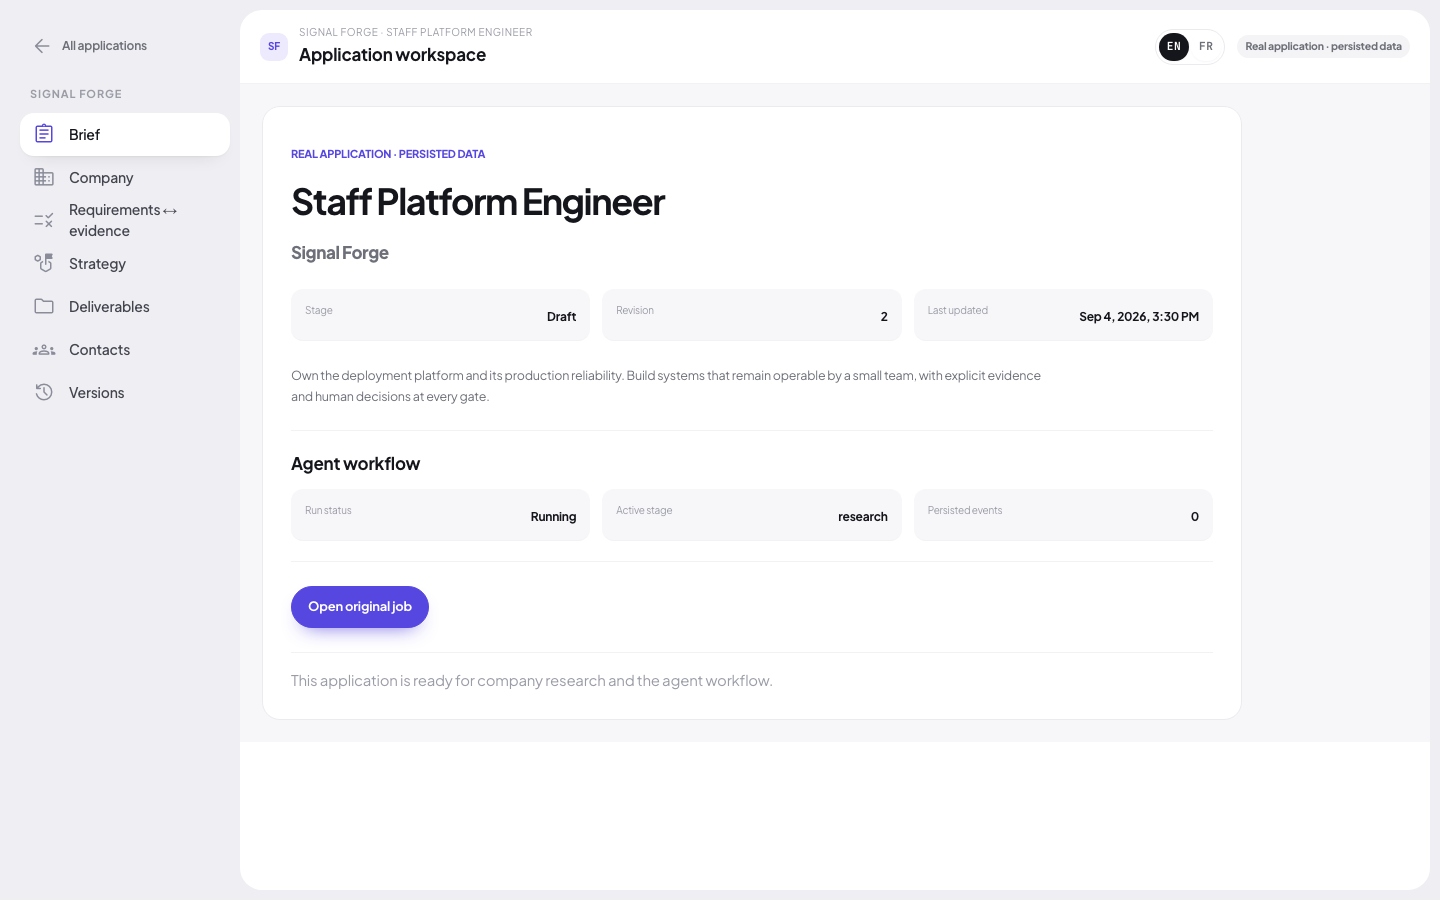
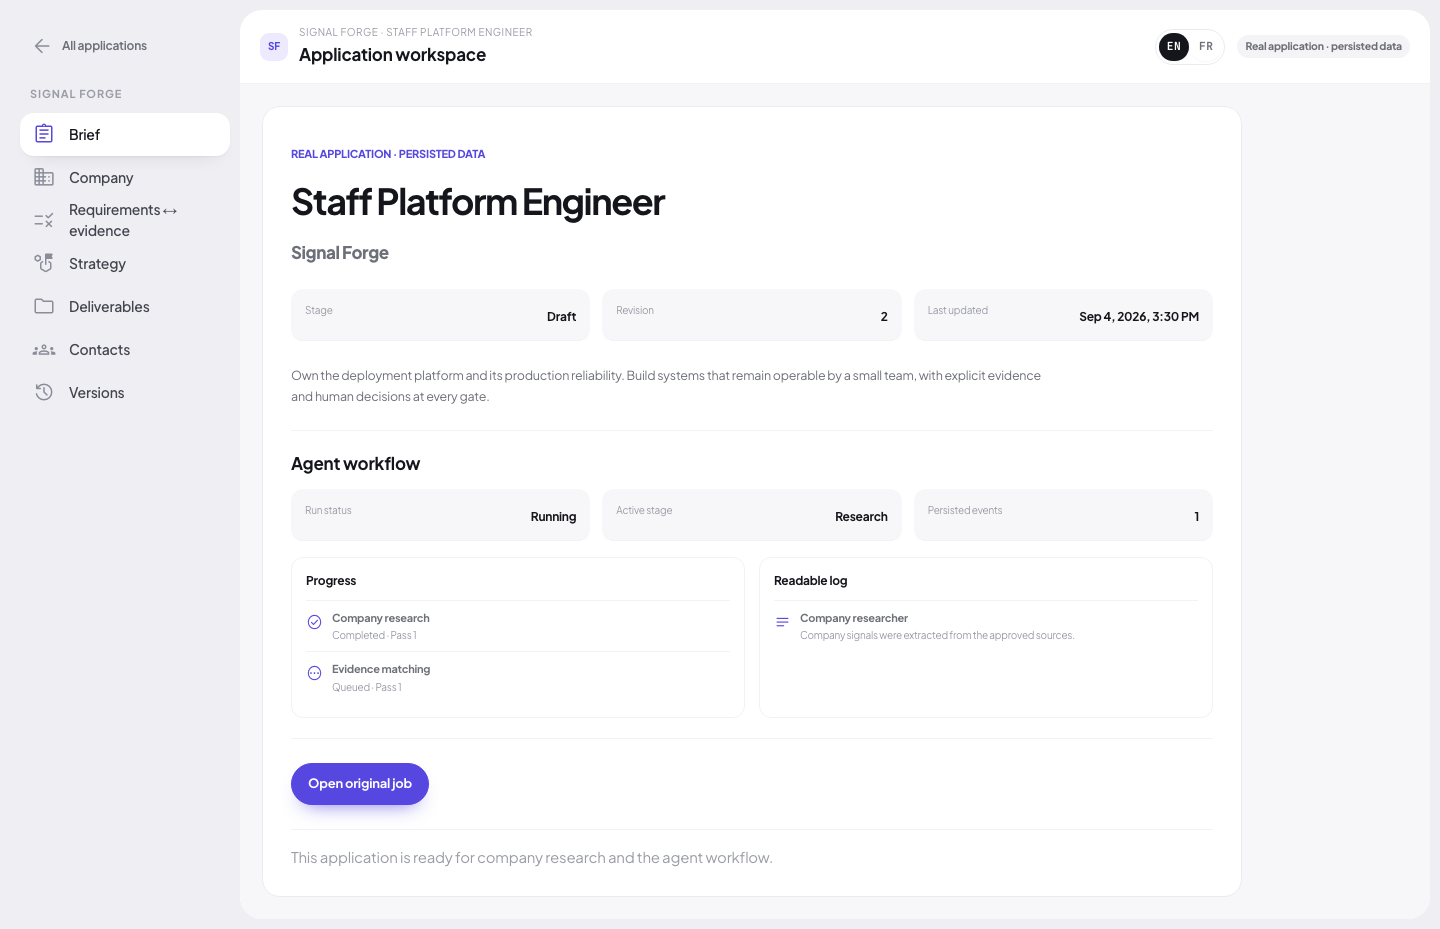
feat: explain application run progress

diff --git a/components/kit-route-page.tsx b/components/kit-route-page.tsx
@@ -874,20 +874,61 @@ function DynamicDossierScreen({ applicationId }: { applicationId: string }) {
               {workflow.loading ? (
                 <p>Recherche d’un run existant…</p>
               ) : workflow.run ? (
-                <dl>
-                  <div>
-                    <dt>Statut du run</dt>
-                    <dd>{runStatusLabel(workflow.run.status, locale)}</dd>
+                <>
+                  <dl>
+                    <div>
+                      <dt>Statut du run</dt>
+                      <dd>{runStatusLabel(workflow.run.status, locale)}</dd>
+                    </div>
+                    <div>
+                      <dt>Étape active</dt>
+                      <dd>{runStageLabel(workflow.run.stage, locale)}</dd>
+                    </div>
+                    <div>
+                      <dt>Événements persistés</dt>
+                      <dd>{workflow.run.events.length}</dd>
+                    </div>
+                  </dl>
+                  <div className="co-run-journal">
+                    <section>
+                      <h3>Progression</h3>
+                      {workflow.run.steps.map((step) => (
+                        <article key={`${step.stage}-${step.attempt}`}>
+                          <Icon>
+                            {step.status === 'completed'
+                              ? 'check_circle'
+                              : step.status === 'failed'
+                                ? 'error'
+                                : 'pending'}
+                          </Icon>
+                          <span>
+                            <strong>{runStageLabel(step.stage, locale)}</strong>
+                            <small>
+                              {stepStatusLabel(step.status, locale)} ·{' '}
+                              {attemptLabel(step.attempt, locale)}
+                            </small>
+                          </span>
+                        </article>
+                      ))}
+                    </section>
+                    <section>
+                      <h3>Journal lisible</h3>
+                      {workflow.run.events.length ? (
+                        workflow.run.events.slice(-5).map((event, index) => (
+                          <article key={`${event.type}-${index}`}>
+                            <Icon>notes</Icon>
+                            <span>
+                              <strong>{actorLabel(event.actor, locale)}</strong>
+                              <small>{event.summary}</small>
+                            </span>
+                          </article>
+                        ))
+                      ) : (
+                        <p>Le premier événement apparaîtra ici.</p>
+                      )}
+                    </section>
                   </div>
-                  <div>
-                    <dt>Étape active</dt>
-                    <dd>{workflow.run.stage.replaceAll('-', ' ')}</dd>
-                  </div>
-                  <div>
-                    <dt>Événements persistés</dt>
-                    <dd>{workflow.run.events.length}</dd>
-                  </div>
-                </dl>
+                </>
               ) : workflow.error ? (
                 <p role="alert">{workflowErrorLabel(workflow.error)}</p>
               ) : (
@@ -3880,6 +3921,57 @@ function workflowErrorLabel(error: string) {
     unavailable: 'Le workflow est momentanément indisponible.',
   };
   return labels[error] ?? labels.unavailable;
+}
+
+function runStageLabel(stage: string, locale: 'en' | 'fr') {
+  const labels: Record<string, [string, string]> = {
+    research: ['Research', 'Recherche entreprise'],
+    'company-researcher': ['Company research', 'Recherche entreprise'],
+    'evidence-archivist': ['Evidence matching', 'Appariement des preuves'],
+    'recruiter-strategist': [
+      'Application strategy',
+      'Stratégie de candidature',
+    ],
+    'page-composer': ['Page composition', 'Composition de la page'],
+    'recruiter-reviewer': ['Recruiter review', 'Revue recruteur'],
+    'hiring-manager-reviewer': [
+      'Hiring manager review',
+      'Revue hiring manager',
+    ],
+    'factuality-reviewer': ['Factual review', 'Revue factuelle'],
+  };
+  return labels[stage]?.[locale === 'en' ? 0 : 1] ?? stage.replaceAll('-', ' ');
+}
+
+function stepStatusLabel(status: string, locale: 'en' | 'fr') {
+  const labels: Record<string, [string, string]> = {
+    pending: ['Queued', 'En attente'],
+    leased: ['Assigned', 'Assignée'],
+    in_flight: ['Running', 'En cours'],
+    completed: ['Completed', 'Terminée'],
+    failed: ['Failed', 'Échec'],
+    cancelled: ['Cancelled', 'Annulée'],
+  };
+  return labels[status]?.[locale === 'en' ? 0 : 1] ?? status;
+}
+
+function actorLabel(actor: string, locale: 'en' | 'fr') {
+  const labels: Record<string, [string, string]> = {
+    human: ['You', 'Vous'],
+    system: ['Career OS', 'Career OS'],
+    'company-researcher': ['Company researcher', 'Agent de recherche'],
+    'evidence-archivist': ['Evidence archivist', 'Agent de preuves'],
+    'recruiter-strategist': ['Recruiter strategist', 'Agent stratégie'],
+    'hiring-manager': ['Hiring manager reviewer', 'Revue hiring manager'],
+    'page-composer': ['Page composer', 'Agent de rédaction'],
+    'fact-checker': ['Fact checker', 'Agent factuel'],
+    recruiter: ['Recruiter reviewer', 'Revue recruteur'],
+  };
+  return labels[actor]?.[locale === 'en' ? 0 : 1] ?? actor;
+}
+
+function attemptLabel(attempt: number, locale: 'en' | 'fr') {
+  return `${locale === 'en' ? 'Pass' : 'Passe'} ${attempt}`;
 }
 
 export function KitRoutePage({ path, query }: { path: string; query: Query }) {

diff --git a/tests/e2e/application-dossier.spec.ts b/tests/e2e/application-dossier.spec.ts
@@ -50,11 +50,21 @@ function savedRun() {
     usedTokens: 0,
     usedCostMicros: 0,
     profile: syntheticProfile,
-    steps: [{ stage: 'company-researcher', status: 'pending', attempt: 1 }],
+    steps: [
+      { stage: 'company-researcher', status: 'completed', attempt: 1 },
+      { stage: 'evidence-archivist', status: 'pending', attempt: 1 },
+    ],
     reviews: [],
     reviewDecisions: [],
     publicationEligible: false,
-    events: [],
+    events: [
+      {
+        actor: 'company-researcher',
+        type: 'research_completed',
+        summary: 'Company signals were extracted from the approved sources.',
+        costMicros: 0,
+      },
+    ],
   } as const;
 }
 
@@ -104,6 +114,15 @@ test('starts and restores the persisted workflow for this application', async ({
   await page.goto(`/applications/${applicationId}`);
   await page.getByRole('button', { name: 'Start agent workflow' }).click();
   await expect(page.getByText('Running', { exact: true })).toBeVisible();
+  await expect(
+    page.getByText('Company research', { exact: true }),
+  ).toBeVisible();
+  await expect(
+    page.getByText('Evidence matching', { exact: true }),
+  ).toBeVisible();
+  await expect(
+    page.getByText('Company signals were extracted from the approved sources.'),
+  ).toBeVisible();
   expect(created).toBe(true);
   expect(requestBody).toEqual({
     applicationId,

diff --git a/app/globals.css b/app/globals.css
@@ -2232,6 +2232,53 @@
   margin-bottom: 0;
 }
 
+.co-run-journal {
+  display: grid;
+  grid-template-columns: repeat(2, minmax(0, 1fr));
+  gap: 14px;
+  margin-top: 16px;
+}
+
+.co-run-journal > section {
+  padding: 14px;
+  border: 1px solid var(--co-divider);
+  border-radius: 12px;
+}
+
+.co-run-journal h3 {
+  margin: 0 0 10px;
+  font-size: 12px;
+}
+
+.co-run-journal article {
+  display: flex;
+  gap: 9px;
+  align-items: flex-start;
+  padding: 9px 0;
+  border-top: 1px solid var(--co-divider);
+}
+
+.co-run-journal article .co-icon {
+  color: var(--co-accent);
+  font-size: 17px;
+}
+
+.co-run-journal article strong,
+.co-run-journal article small {
+  display: block;
+}
+
+.co-run-journal article strong {
+  font-size: 11px;
+}
+
+.co-run-journal article small {
+  margin-top: 2px;
+  color: var(--co-text-4);
+  font-size: 10px;
+  line-height: 1.4;
+}
+
 .co-live-dossier-card footer {
   margin-top: 24px;
   padding-top: 16px;
@@ -5828,6 +5875,10 @@
   }
 
   .co-live-dossier-card dl {
+    grid-template-columns: minmax(0, 1fr);
+  }
+
+  .co-run-journal {
     grid-template-columns: minmax(0, 1fr);
   }
 

diff --git a/lib/i18n/dictionaries/dossier.ts b/lib/i18n/dictionaries/dossier.ts
@@ -32,6 +32,9 @@ export const dossierMessages = {
   'Statut du run': 'Run status',
   'Étape active': 'Active stage',
   'Événements persistés': 'Persisted events',
+  Progression: 'Progress',
+  'Journal lisible': 'Readable log',
+  'Le premier événement apparaîtra ici.': 'The first event will appear here.',
   'Aucun run. Le bouton démarre une exécution bornée et persistée à partir de cette candidature et de votre mémoire.':
     'No run yet. The button starts a bounded, persisted workflow from this application and your Career Memory.',
   'Compléter la mémoire professionnelle': 'Complete Career Memory',
